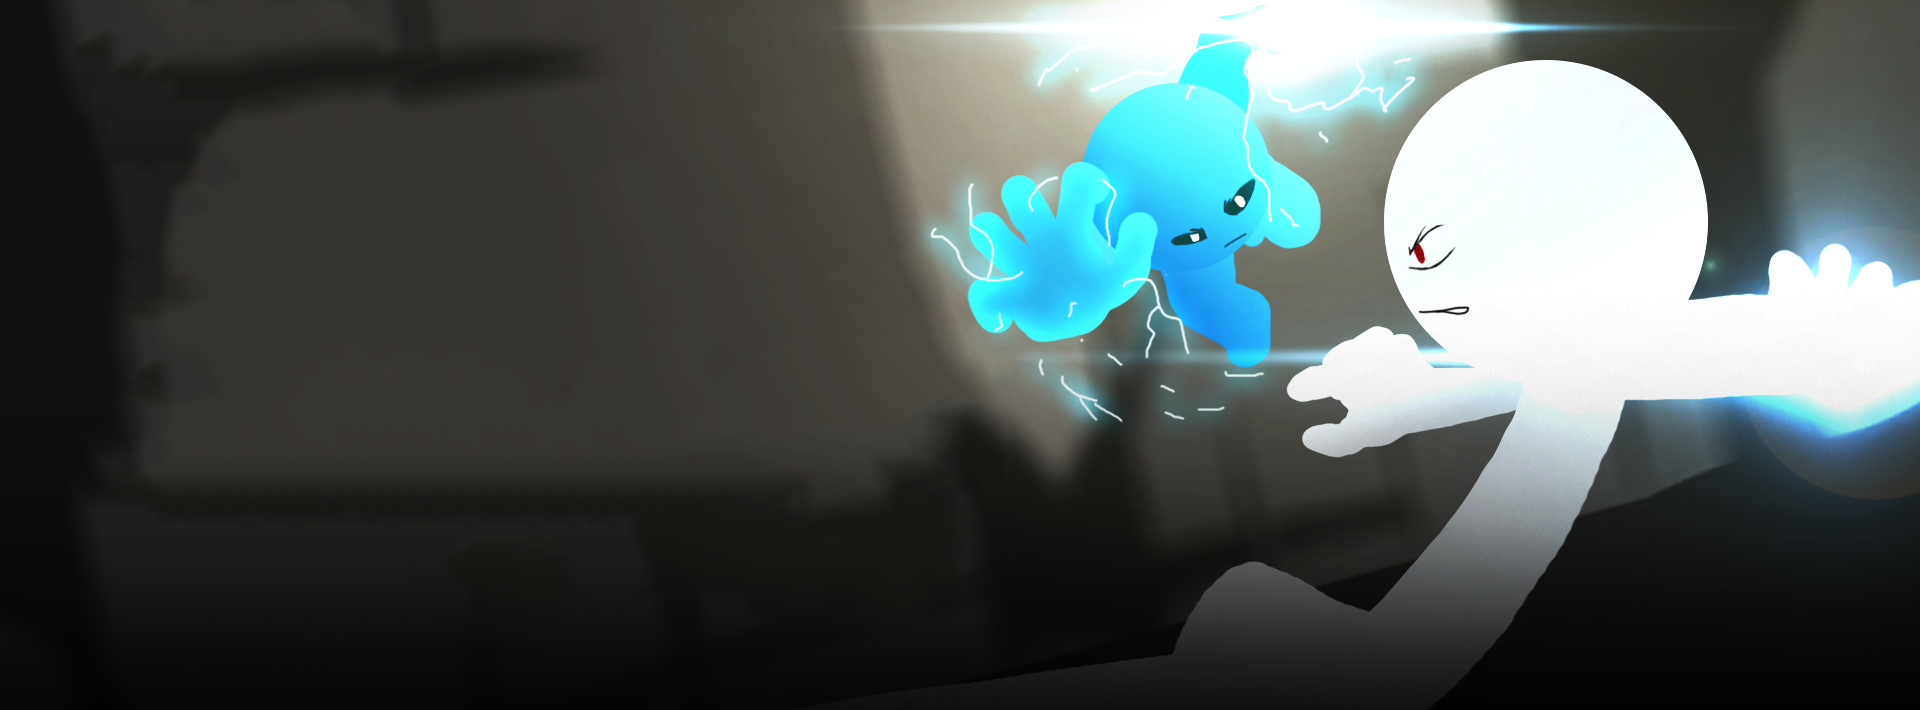
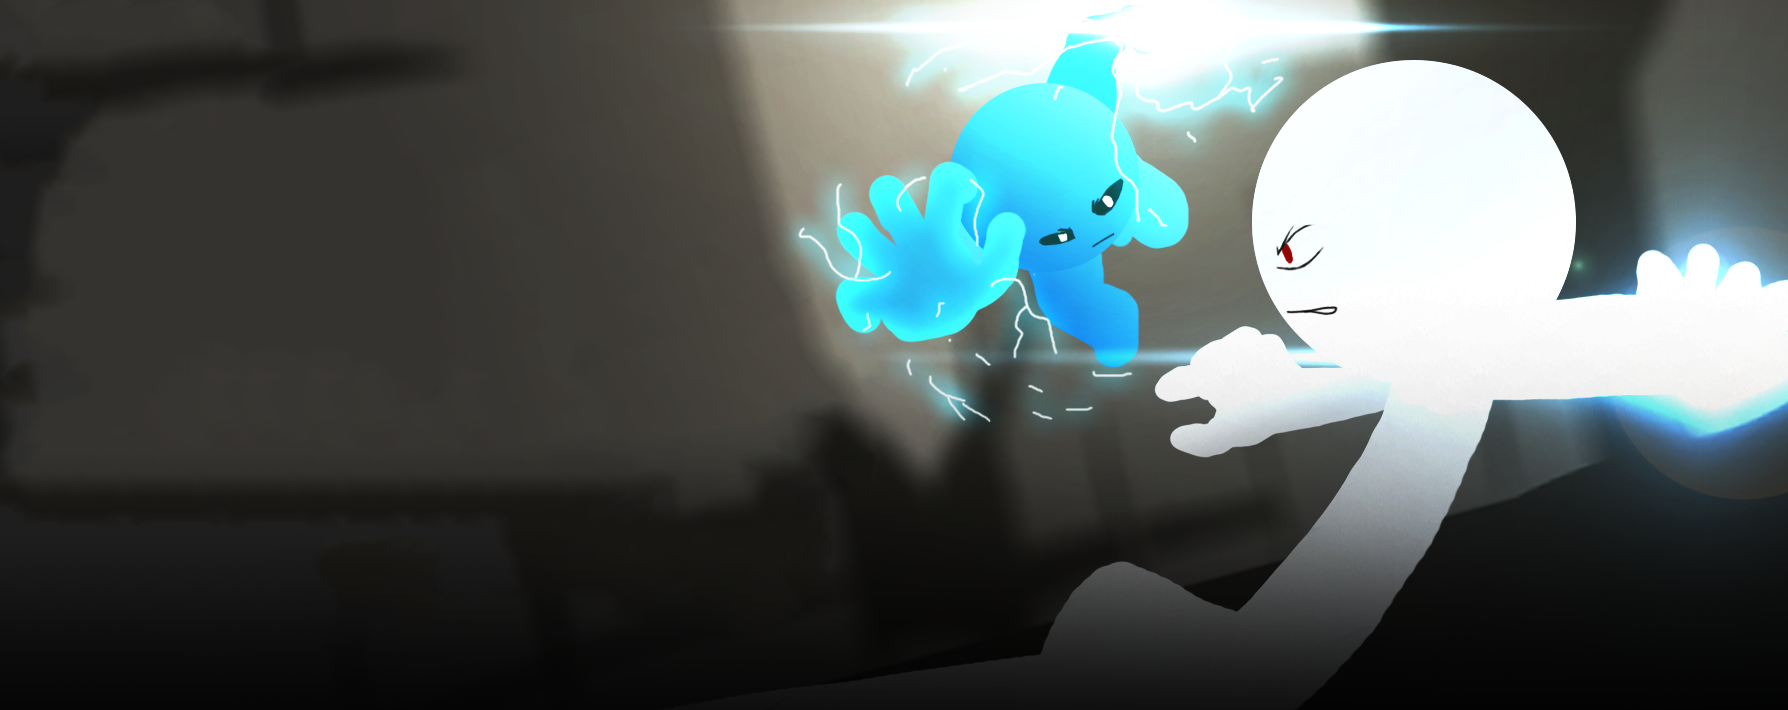
update crop and text

diff --git a/portfolio-personal.html b/portfolio-personal.html
@@ -3229,12 +3229,12 @@
 
             if (!document.fullscreenElement) {
                 document.documentElement.requestFullscreen().then(() => {
-                    label.textContent = 'Window';
+                    label.textContent = 'WINDOW';
                     icon.innerHTML = exitIcon;
                 }).catch(() => {});
             } else {
                 document.exitFullscreen().then(() => {
-                    label.textContent = 'Fullscreen';
+                    label.textContent = 'FULLSCREEN';
                     icon.innerHTML = enterIcon;
                 }).catch(() => {});
             }
@@ -3248,10 +3248,10 @@
             const exitIcon = '<polyline points="3 8 3 3 8 3"/><polyline points="16 3 21 3 21 8"/><polyline points="21 16 21 21 16 21"/><polyline points="8 21 3 21 3 16"/>';
             const enterIcon = '<polyline points="8 3 3 3 3 8"/><polyline points="21 8 21 3 16 3"/><polyline points="3 16 3 21 8 21"/><polyline points="16 21 21 21 21 16"/>';
             if (document.fullscreenElement) {
-                label.textContent = 'Window';
+                label.textContent = 'WINDOW';
                 icon.innerHTML = exitIcon;
             } else {
-                label.textContent = 'Fullscreen';
+                label.textContent = 'FULLSCREEN';
                 icon.innerHTML = enterIcon;
             }
         });